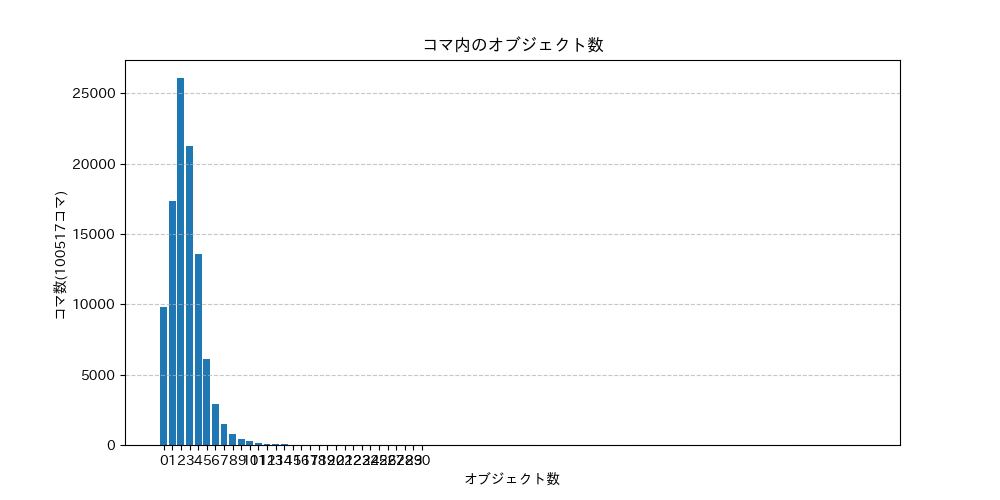
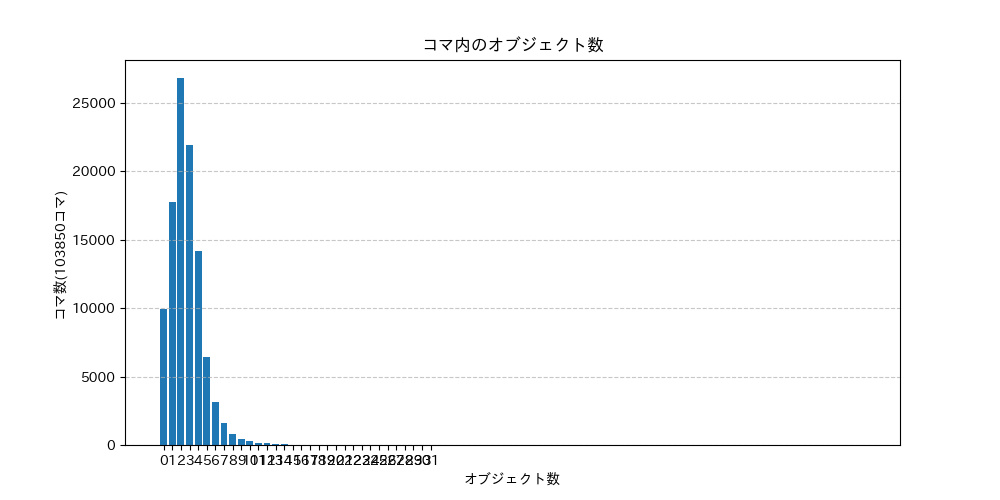
feat: draw_bbox_and_show関数の追加（検証用） feat:オブジェクト数が10以上はまとめてプロットするように変更

diff --git a/packages/draw_bbox_and_show.py b/packages/draw_bbox_and_show.py
@@ -1,0 +1,37 @@
+import cv2
+import numpy as np
+
+def draw_bbox_and_show(path, index, frame, bboxes):
+    index = str(index).zfill(3)
+    title = path.split("/")[-1].split(".")[0]
+    # 画像のパスを生成
+    img_path = f"./../Manga109_released_2023_12_07/images/{title}/{index}.jpg"
+    img = cv2.imread(img_path)
+    if img is None:
+        print("画像が読み込めませんでした")
+        return
+    frame_xmin = int(frame["xmin"])
+    frame_ymin = int(frame["ymin"])
+    frame_xmax = int(frame["xmax"])
+    frame_ymax = int(frame["ymax"])
+    cv2.rectangle(img, (frame_xmin, frame_ymin), (frame_xmax, frame_ymax), (0, 255, 0), 2)
+
+    for bbox in bboxes:
+        xmin = int(bbox["xmin"])
+        ymin = int(bbox["ymin"])
+        xmax = int(bbox["xmax"])
+        ymax = int(bbox["ymax"])
+        cv2.rectangle(img, (xmin, ymin), (xmax, ymax), (0, 0, 255), 2)
+        
+    cv2.imshow("image", img)
+    cv2.waitKey(0)
+    cv2.destroyAllWindows()
+
+
+
+# if __name__ == "__main__":
+#     path = "./../../Manga109_released_2023_12_07/annotations/YumeiroCooking.xml"
+#     index = 78
+#     frame = {'type': 'frame', 'id': '000818ee', 'xmin': '36', 'ymin': '2', 'xmax': '740', 'ymax': '817'}
+#     bboxes = [{'type': 'face', 'id': '000818d6', 'xmin': '554', 'ymin': '112', 'xmax': '612', 'ymax': '163'}, {'type': 'text', 'id': '000818d7', 'xmin': '462', 'ymin': '257', 'xmax': '518', 'ymax': '343'}, {'type': 'face', 'id': '000818da', 'xmin': '611', 'ymin': '195', 'xmax': '648', 'ymax': '246'}, {'type': 'text', 'id': '000818db', 'xmin': '640', 'ymin': '404', 'xmax': '702', 'ymax': '502'}, {'type': 'face', 'id': '000818dc', 'xmin': '350', 'ymin': '78', 'xmax': '381', 'ymax': '103'}, {'type': 'text', 'id': '000818ec', 'xmin': '194', 'ymin': '32', 'xmax': '221', 'ymax': '126'}, {'type': 'face', 'id': '000818f0', 'xmin': '64', 'ymin': '367', 'xmax': '210', 'ymax': '490'}, {'type': 'text', 'id': '000818f3', 'xmin': '682', 'ymin': '98', 'xmax': '717', 'ymax': '163'}, {'type': 'text', 'id': '000818f4', 'xmin': '384', 'ymin': '245', 'xmax': '417', 'ymax': '349'}, {'type': 'text', 'id': '00081901', 'xmin': '355', 'ymin': '652', 'xmax': '394', 'ymax': '769'}, {'type': 'face', 'id': '00081902', 'xmin': '507', 'ymin': '586', 'xmax': '689', 'ymax': '813'}, {'type': 'face', 'id': '00081903', 'xmin': '304', 'ymin': '60', 'xmax': '331', 'ymax': '81'}, {'type': 'face', 'id': '0008190a', 'xmin': '242', 'ymin': '74', 'xmax': '263', 'ymax': '92'}]
+#     draw_bbox_and_show(path, index, frame, bboxes)

diff --git a/packages/plot_bounded_obj_num.py b/packages/plot_bounded_obj_num.py
@@ -5,16 +5,37 @@ from collections import Counter
 
 def plot_bounded_obj_num(bouded_obj_num: list, title: str):
     frame_sum = len(bouded_obj_num)
-    counter = Counter(bouded_obj_num)
-    print(counter)
-    plt.figure(figsize=(10, 5))
-    plt.bar(counter.keys(), counter.values())
-    
-    plt.title(title)
-    plt.xlabel("オブジェクト数")
-    plt.ylabel(f"コマ数({frame_sum}コマ)")
-    plt.xticks(np.arange(0, len(counter)+1, 1))
-    
-    plt.grid(axis="y", linestyle="--", alpha=0.7)
-    plt.savefig("bounded_obj_num.png")
+    # 10以上のオブジェクト数を10にまとめる
+    processed_data = [10 if x >= 10 else x for x in bouded_obj_num]
+
+    # オブジェクト数の頻度を計算
+    counter = Counter(processed_data)
+
+    # キーを整数として取得し、ソート
+    sorted_keys = sorted(int(k) if isinstance(k, str) else k for k in counter.keys())
+    values = [counter[k] for k in sorted_keys]
+
+    # プロットの準備
+    plt.figure(figsize=(12, 6))
+    bars = plt.bar(range(len(sorted_keys)), values)
+
+    # グラフの設定
+    plt.title(f'{title}')
+    plt.xlabel('オブジェクト数')
+    plt.ylabel(f'コマ数({frame_sum}コマ)')
+
+    # x軸のラベルを調整（10を「10以上」に変更）
+    labels = [str(k) if k < 10 else '<10' for k in sorted_keys]
+    plt.xticks(range(len(sorted_keys)), labels)
+
+    # 各バーの上に値を表示
+    for i, v in enumerate(values):
+        plt.text(i, v, str(v), ha='center', va='bottom')
+
+    # グリッドの追加
+    plt.grid(axis='y', linestyle='--', alpha=0.7)
+
+    # プロットの表示
+    plt.tight_layout()
+    plt.savefig('result.png')
     plt.show()

diff --git a/main.py b/main.py
@@ -1,4 +1,4 @@
-from packages import get_framebbox, get_path_list, get_nonframebbox, get_bboxs_inside_frame, plot_bounded_obj_num
+from packages import get_framebbox, get_path_list, get_nonframebbox, get_bboxs_inside_frame, plot_bounded_obj_num, draw_bbox_and_show
 
 if __name__ == "__main__":
     bounded_bboxs_num = []
@@ -14,14 +14,12 @@ if __name__ == "__main__":
                 # print(frame_bbox["id"])
                 bouded_nonframe_bboxs = get_bboxs_inside_frame.get_bboxs_inside_frame(frame_bbox, nonframe_bboxs[index])
                 bounded_bboxs_num.append(bouded_nonframe_bboxs.__len__())
-                # print(bouded_nonframe_bboxs.__len__())
-                if len(bouded_nonframe_bboxs) >= 10:
-                    print(path)
-                    print(index)
-                    print(frame_bbox["id"])
-                    print(bouded_nonframe_bboxs.__len__())
-                    print(bouded_nonframe_bboxs)
-                    print("=================================")
-                    break
-    # print(bounded_bboxs_num)
+                # if len(bouded_nonframe_bboxs) == 0:
+                #     print(path)
+                #     print(index)
+                #     print(frame_bbox)
+                #     print(bouded_nonframe_bboxs.__len__())
+                #     print(bouded_nonframe_bboxs)
+                #     print("=================================")
+                #     draw_bbox_and_show.draw_bbox_and_show(path, index, frame_bbox, nonframe_bboxs[index])
     plot_bounded_obj_num.plot_bounded_obj_num(bounded_bboxs_num, "コマ内のオブジェクト数")
